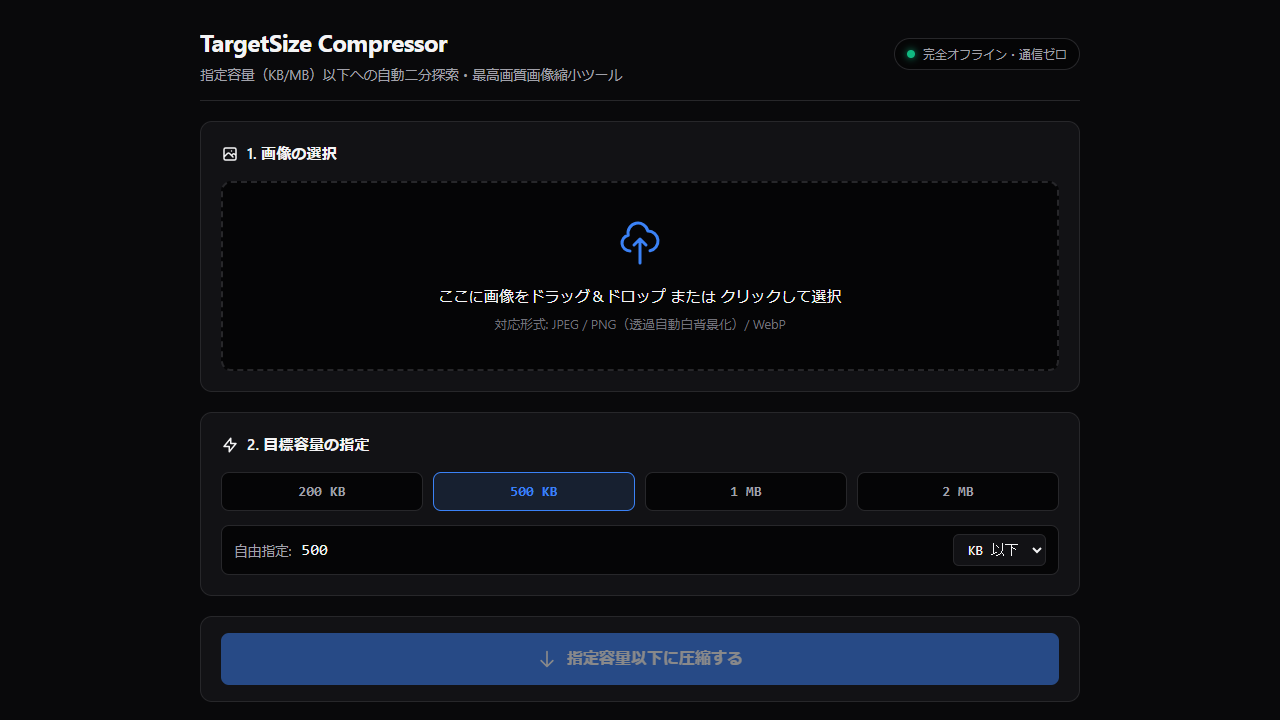
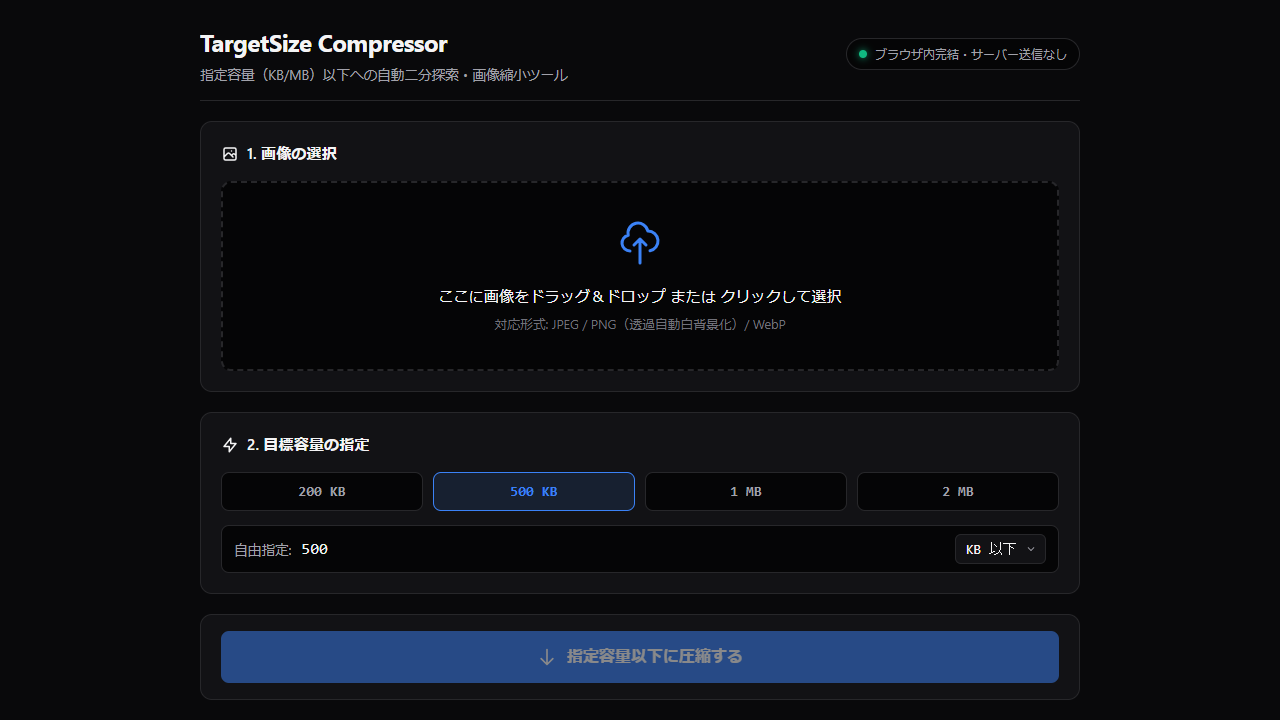
feat: update TargetSize Compressor showcase page to standalone format

diff --git a/tools/target-size-compressor/index.html b/tools/target-size-compressor/index.html
@@ -3,15 +3,13 @@
 <head>
   <meta charset="utf-8">
   <meta name="viewport" content="width=device-width, initial-scale=1">
-  <title>指定キロバイト画像縮小ツール (TargetSize Compressor) | Zero Dev</title>
-  <meta name="description" content="役所申請やエントリーシートなどの「500KB以下」指定に合わせて、画像をブラウザ内で自動圧縮する完全ローカルWebツールです。">
+  <title>指定キロバイト（KB）画像縮小ツール | Zero Dev</title>
+  <meta name="description" content="画像のファイルサイズを指定した容量（KB/MB）以下にブラウザ内で縮小・圧縮するWebツール。オンライン申請やフォーム提出時の容量制限に合わせた画像調整に使えます。">
   <link rel="canonical" href="https://zero-dev.jp/tools/target-size-compressor/">
   <link rel="icon" href="/favicon.svg" type="image/svg+xml">
   <link rel="stylesheet" href="/css/style.css">
-  <link rel="stylesheet" href="./css/style.css">
 </head>
 <body>
-  <!-- Site Header (Zero Dev 共通) -->
   <header class="site-header">
     <div class="container header-inner">
       <a href="/" class="site-logo">Zero Dev</a>
@@ -23,214 +21,77 @@
     </div>
   </header>
 
-  <!-- Main Content -->
   <main class="site-main">
     <div class="container">
       <article class="tool-detail"
-        data-title="指定キロバイト画像縮小ツール"
+        data-title="指定キロバイト（KB）画像縮小ツール"
         data-subtitle="TargetSize Compressor"
-        data-description="役所申請やエントリーシートなどの「500KB以下」指定に合わせて、画像をブラウザ内で自動圧縮する完全ローカルWebツールです。"
+        data-description="画像のファイルサイズを指定した容量（KB/MB）以下にブラウザ内で縮小・圧縮するWebツール。オンライン申請やフォーム提出時の容量制限に合わせた画像調整に使えます。"
         data-category="general"
         data-image="/assets/tools/target-size-compressor.png"
-        data-published="2026-10-25">
+        data-published="2026-10-31">
 
         <header class="tool-detail-header">
           <div class="tool-meta-badge-row">
             <span class="badge badge-general">一般向けツール</span>
           </div>
-          <h1 class="tool-title">指定キロバイト画像縮小ツール</h1>
+          <h1 class="tool-title">指定キロバイト（KB）画像縮小ツール</h1>
           <p class="tool-subtitle">TargetSize Compressor</p>
         </header>
 
         <figure class="tool-media">
-          <img src="/assets/tools/target-size-compressor.png" alt="TargetSize Compressor スクリーンショット" width="1280" height="720">
-          <figcaption class="tool-media-caption">TargetSize Compressor - メイン画面</figcaption>
+          <img src="/assets/tools/target-size-compressor.png" alt="指定キロバイト（KB）画像縮小ツール スクリーンショット" width="1280" height="720">
+          <figcaption class="tool-media-caption">TargetSize Compressor - メイン画面（ブラウザ内完結で指定容量以下に自動縮小）</figcaption>
         </figure>
 
-        <!-- ツール本体埋め込みセクション -->
-        <section class="tool-section tool-app-section">
-          <h2>ツールを利用する</h2>
-          <p style="color: var(--text-secondary); margin-bottom: 20px;">
-            画像をドラッグ＆ドロップまたは選択し、希望の目標容量を指定して「指定容量以下に圧縮する」を押してください。画像は外部サーバーへ送信されず、お使いの端末内だけで安全・高速に処理されます。
-          </p>
-
-          <div class="app-container" style="max-width: 100%; margin: 0; padding: 0;">
-            <!-- Step 1: Image Dropzone -->
-            <section class="card" aria-labelledby="heading-image-select">
-              <h3 id="heading-image-select" class="card-title">
-                <svg width="18" height="18" fill="none" stroke="currentColor" viewBox="0 0 24 24" aria-hidden="true">
-                  <path stroke-linecap="round" stroke-linejoin="round" stroke-width="2" d="M4 16l4.586-4.586a2 2 0 012.828 0L16 16m-2-2l1.586-1.586a2 2 0 012.828 0L20 14m-6-6h.01M6 20h12a2 2 0 002-2V6a2 2 0 00-2-2H6a2 2 0 00-2 2v12a2 2 0 002 2z"/>
-                </svg>
-                1. 画像の選択
-              </h3>
-              
-              <input type="file" id="file-input" accept="image/jpeg,image/png,image/webp" style="display: none;" aria-label="画像ファイルを選択">
-
-              <div id="dropzone" class="dropzone" role="button" tabindex="0" aria-label="画像をドラッグ＆ドロップまたはクリックしてファイル選択">
-                <svg class="dropzone-icon" fill="none" stroke="currentColor" viewBox="0 0 24 24" aria-hidden="true">
-                  <path stroke-linecap="round" stroke-linejoin="round" stroke-width="1.5" d="M7 16a4 4 0 01-.88-7.903A5 5 0 1115.9 6L16 6a5 5 0 011 9.9M15 13l-3-3m0 0l-3 3m3-3v12"/>
-                </svg>
-                <div class="dropzone-text">ここに画像をドラッグ＆ドロップ または クリックして選択</div>
-                <div class="dropzone-subtext">対応形式: JPEG / PNG（透過自動白背景化）/ WebP</div>
-              </div>
-
-              <!-- Selected File Info -->
-              <div id="selected-file-card" class="selected-file-card" style="display: none;">
-                <img id="thumbnail-preview" class="thumbnail-preview" alt="選択画像のサムネイル">
-                <div class="file-meta">
-                  <div id="file-meta-name" class="file-meta-name">-</div>
-                  <div id="file-meta-details" class="file-meta-details">-</div>
-                </div>
-                <button type="button" id="btn-remove-file" class="btn-remove" title="画像を解除" aria-label="選択中の画像を解除">
-                  <svg width="18" height="18" fill="none" stroke="currentColor" viewBox="0 0 24 24" aria-hidden="true">
-                    <path stroke-linecap="round" stroke-linejoin="round" stroke-width="2" d="M6 18L18 6M6 6l12 12"/>
-                  </svg>
-                </button>
-              </div>
-            </section>
-
-            <!-- Step 2: Target Size Selection -->
-            <section class="card" aria-labelledby="heading-target-size">
-              <h3 id="heading-target-size" class="card-title">
-                <svg width="18" height="18" fill="none" stroke="currentColor" viewBox="0 0 24 24" aria-hidden="true">
-                  <path stroke-linecap="round" stroke-linejoin="round" stroke-width="2" d="M13 10V3L4 14h7v7l9-11h-7z"/>
-                </svg>
-                2. 目標容量の指定
-              </h3>
-
-              <!-- Preset Buttons -->
-              <div class="preset-group" role="radiogroup" aria-label="容量プリセット">
-                <button type="button" class="btn-preset" data-size="200" data-unit="KB" role="radio" aria-checked="false">200 KB</button>
-                <button type="button" class="btn-preset active" data-size="500" data-unit="KB" role="radio" aria-checked="true">500 KB</button>
-                <button type="button" class="btn-preset" data-size="1" data-unit="MB" role="radio" aria-checked="false">1 MB</button>
-                <button type="button" class="btn-preset" data-size="2" data-unit="MB" role="radio" aria-checked="false">2 MB</button>
-              </div>
-
-              <!-- Custom Size Input -->
-              <div class="custom-input-row">
-                <label for="custom-size-input">自由指定:</label>
-                <input type="number" id="custom-size-input" class="input-number" min="1" max="50000" placeholder="例: 500" value="500" aria-label="目標容量数値">
-                <select id="custom-unit-select" class="select-unit" aria-label="容量単位">
-                  <option value="KB" selected>KB 以下</option>
-                  <option value="MB">MB 以下</option>
-                </select>
-              </div>
-            </section>
-
-            <!-- Action Section -->
-            <section class="card" style="padding: 16px 20px;">
-              <button type="button" id="btn-compress" class="btn-action" disabled>
-                <svg width="20" height="20" fill="none" stroke="currentColor" viewBox="0 0 24 24" aria-hidden="true">
-                  <path stroke-linecap="round" stroke-linejoin="round" stroke-width="2" d="M19 14l-7 7m0 0l-7-7m7 7V3"/>
-                </svg>
-                <span id="btn-compress-text">指定容量以下に圧縮する</span>
-              </button>
-
-              <!-- Progress Box -->
-              <div id="progress-box" class="progress-box" style="display: none;" aria-live="polite">
-                <div class="spinner" aria-hidden="true"></div>
-                <div id="progress-text">処理準備中...</div>
-              </div>
-            </section>
-
-            <!-- Step 3: Result Section -->
-            <section id="result-card" class="card" style="display: none;" aria-labelledby="heading-result">
-              <h3 id="heading-result" class="card-title">
-                <svg width="18" height="18" fill="none" stroke="currentColor" viewBox="0 0 24 24" aria-hidden="true">
-                  <path stroke-linecap="round" stroke-linejoin="round" stroke-width="2" d="M9 12l2 2 4-4m6 2a9 9 0 11-18 0 9 9 0 0118 0z"/>
-                </svg>
-                3. 圧縮結果 & ダウンロード
-              </h3>
-
-              <!-- Metric Cards -->
-              <div class="metrics-grid">
-                <div class="metric-card">
-                  <div class="metric-label">元ファイル容量</div>
-                  <div id="metric-original-size" class="metric-value">-</div>
-                </div>
-                <div class="metric-card">
-                  <div class="metric-label">圧縮後容量</div>
-                  <div id="metric-result-size" class="metric-value highlight">-</div>
-                </div>
-                <div class="metric-card">
-                  <div class="metric-label">削減率</div>
-                  <div id="metric-reduction-rate" class="metric-value highlight">-</div>
-                </div>
-                <div class="metric-card">
-                  <div class="metric-label">解像度 / 採用品質</div>
-                  <div id="metric-quality-info" class="metric-value" style="font-size: 0.95rem;">-</div>
-                </div>
-              </div>
-
-              <!-- Preview & Download -->
-              <div class="preview-container">
-                <div class="result-img-wrapper">
-                  <img id="result-preview-img" class="result-img" alt="圧縮後画像プレビュー">
-                </div>
-                <button type="button" id="btn-download" class="btn-download">
-                  <svg width="20" height="20" fill="none" stroke="currentColor" viewBox="0 0 24 24" aria-hidden="true">
-                    <path stroke-linecap="round" stroke-linejoin="round" stroke-width="2" d="M4 16v1a3 3 0 003 3h10a3 3 0 003-3v-1m-4-4l-4 4m0 0l-4-4m4 4V4"/>
-                  </svg>
-                  <span id="btn-download-text">画像をダウンロード</span>
-                </button>
-              </div>
-            </section>
+        <section class="tool-actions-box">
+          <h2>ツールを利用する / コードを見る</h2>
+          <div class="btn-group">
+            <a href="https://zero-dev.jp/target-size-compressor/" class="btn btn-primary" target="_blank" rel="noopener noreferrer">ツールを開く（Web版）</a>
+            <a href="https://github.com/tk030-lotto/target-size-compressor" class="btn btn-secondary" target="_blank" rel="noopener noreferrer">GitHub リポジトリ</a>
+            <a href="#" class="btn btn-secondary" aria-disabled="true" tabindex="-1" style="opacity: 0.45; pointer-events: none; cursor: not-allowed; color: var(--text-muted); border-color: var(--border-color);">note 解説記事（準備中）</a>
           </div>
         </section>
 
-        <!-- 用途 -->
         <section class="tool-section">
-          <h2>用途</h2>
+          <h2>こんなときに</h2>
           <p>
-            公的申請や資格試験、履歴書のWeb提出などで求められる「○○KB以下」「○MB以下」といった容量制限に合わせて、ブラウザ内で画像を自動圧縮・縮小するツールです。目標容量を指定するだけで、画質と解像度の最適値を自動探索し、目標サイズを超えない最高画質の画像を即座に生成します。画像は外部サーバーに送信されず、お使いのブラウザ内だけで安全に処理されます。
+            オンライン申請やエントリーシート、各種Webフォームに顔写真や本人確認書類の画像をアップロードするとき、「500KB以下」「2MB以下」といったファイルサイズの制限でエラーになることがあります。通常の画像編集ソフトでは「何％に縮小すれば指定のKB以下に収まるか」が分からず、何度も保存し直して確かめる手間がかかります。このツールは、目標の容量（KB / MB）を指定するだけで、その容量以下に収まるJPEG画像をブラウザ内で作成します。
           </p>
         </section>
 
-        <!-- なぜ作ったか -->
+        <section class="tool-section">
+          <h2>できること</h2>
+          <ul>
+            <li><strong>目標容量のプリセット選択と自由指定</strong>: 「200 KB」「500 KB」「1 MB」「2 MB」のボタンから選ぶか、任意の数値（KB / MB）を入力して目標サイズを指定できます。</li>
+            <li><strong>二分探索による画質調整と段階的な解像度縮小</strong>: 目標容量の99%以下になるようJPEGの画質（1%〜100%）を最大8回の二分探索で自動調整します。画質を下げるだけでは収まらない大きな画像は、縦横の寸法を85%ずつ段階的に縮小して目標容量に収めます。</li>
+            <li><strong>透過PNG・WebPの白背景合成</strong>: 透過部分のあるPNG画像やWebP画像をJPEGに変換する際、背景が黒く塗りつぶされないよう自動で白背景（<code>#FFFFFF</code>）を合成します。</li>
+            <li><strong>圧縮結果の確認とファイル名への容量付与</strong>: 圧縮前後の容量、削減率、出力解像度（px）と採用品質（%）、プレビュー画像を画面上で確認できます。保存時は <code>[元のファイル名]_[容量]KB.jpg</code> の名前でダウンロードされます。</li>
+            <li><strong>ブラウザ内完結処理</strong>: 画像の読み込みから圧縮・保存まですべてお使いのブラウザ内（Canvas API）で処理され、外部サーバーへ画像が送信されることはありません。</li>
+          </ul>
+        </section>
+
+        <section class="tool-section">
+          <h2>向かないこと・注意</h2>
+          <ul>
+            <li><strong>出力形式はJPEG（<code>.jpg</code>）のみです</strong>: 入力は JPEG / PNG / WebP に対応していますが、圧縮後のファイルはすべて JPEG 形式で出力されます。透過を維持したままのPNG出力には対応していません。</li>
+            <li><strong>HEIC / HEIF 形式には直接対応していません</strong>: スマートフォン等で撮影された <code>.heic</code> ファイルは、あらかじめ JPEG または PNG に変換してから読み込ませてください。</li>
+            <li><strong>極端に小さい容量への圧縮には限界があります</strong>: 縦または横の解像度が下限（50px）に達しても目標容量に収まらない場合や、最大10回の縮小試行を超えても収まらない場合はエラーを表示して処理を中断します。また、出力された画像が提出先の規定（文字の判読性や最小ピクセル数など）を満たしているかは、提出前にご自身でご確認ください。</li>
+          </ul>
+        </section>
+
         <section class="tool-section">
           <h2>なぜ作ったか</h2>
           <p>
-            役所の手続きや採用エントリー等で「500KB以下」などの厳しい容量制限を課される場面が多い一方、画質を保ちながら指定容量ぴったりに収めるには画質スライダーの手動調整を何度も繰り返す必要がありました。また、証明写真や公的書類といった機密性の高い画像を外部の圧縮サーバーへアップロードすることへのプライバシー上の懸念もありました。そこで、画像を外部へ一切送信せず、ブラウザ内だけで指定容量以下の最大画質を自動算出するツールとして開発しました。
+            各種の手続きや申請フォームで画像を添付するとき、「ファイルサイズを○○KB以下にしてください」という指定によく遭遇します。画質や解像度をスライダーで手動調整するツールでは、狙った容量のすぐ下に合わせるために何度も試行錯誤する必要がありました。また、証明写真や書類の画像を外部のサーバーにアップロードして変換するのには抵抗があります。そこで、ブラウザの中だけで動き、「何KB以下にしたいか」を入れるだけで自動的に画質とサイズを探してくれる道具としてこのツールを作りました。
           </p>
         </section>
 
-        <!-- 主な機能・特徴 -->
-        <section class="tool-section">
-          <h2>主な機能・特徴</h2>
-          <ul>
-            <li><strong>目標容量狙い撃ちの二分探索エンジン</strong>: 「200KB」「500KB」「1MB」「2MB」のプリセットや自由入力に対し、最大8回の二分探索によって目標容量を下回る最高品質を自動算出します（実証例：6960×4640px / 約4.0MBの写真を解像度維持のまま423.7KB・品質4%へ89.5%削減）。</li>
-            <li><strong>完全ローカル処理（外部通信ゼロ）</strong>: 画像の読み込みからCanvas描画、JPEGエンコード、ダウンロードまでの全工程がお使いの端末内（ブラウザ）で完結します。外部サーバーへの画像送信や通信トラッキングは一切行われません。</li>
-            <li><strong>透過画像の自動白背景合成と世代劣化防止</strong>: 透過PNGがJPEG化によって黒塗りになるのを防ぐため、自動で白背景（#FFFFFF）を合成します。また、品質調整だけで収まらず段階的リサイズ（0.85倍）を行う場合も、常に元画像から直接再サンプリングして多重圧縮によるボケ（世代劣化）を防ぎます。</li>
-            <li><strong>実容量ラベル付きダウンロード</strong>: 保存ファイル名に <code>[元ファイル名]_[実サイズ]KB.jpg</code>（例：<code>photo_424KB.jpg</code>）のように実容量が自動付与されるため、提出前の容量再確認が容易です。</li>
-          </ul>
-        </section>
-
-        <!-- 注意事項・限界 -->
-        <section class="tool-section">
-          <h2>注意事項・限界</h2>
-          <ul>
-            <li><strong>HEIC形式の非対応</strong>: iPhone等で撮影されたHEIC/HEIF形式はブラウザの標準仕様上直接読み込めないため、あらかじめJPEGやPNG等へ変換してからご利用いただく必要があります。</li>
-            <li><strong>高画素写真における処理負荷</strong>: 数千万画素を超える超高解像度写真の場合、端末のCPU/メモリスペックによってCanvasの展開やエンコード処理に数秒程度の時間を要する場合があります。</li>
-            <li><strong>透過情報の維持不可</strong>: 高効率な容量圧縮を行うため出力はJPEG形式に統一されており、透過PNGの透明部分はすべて白色に置換されます。</li>
-          </ul>
-        </section>
-
-        <!-- 操作デモ -->
         <figure class="tool-media">
-          <img src="./assets/demo.gif" alt="TargetSize Compressor 操作デモ" width="800" height="450">
-          <figcaption class="tool-media-caption">操作デモ（ドラッグ＆ドロップで目標容量を指定し、自動で最大画質を算出・ダウンロード）</figcaption>
+          <img src="./assets/demo.gif" alt="TargetSize Compressor 操作デモ" width="960" height="540">
+          <figcaption class="tool-media-caption">操作デモ（画像を選択し、目標容量に合わせて自動で画質探索・ダウンロード）</figcaption>
         </figure>
 
-        <!-- アクションリンク -->
-        <section class="tool-actions-box">
-          <h2>リポジトリを見る</h2>
-          <div class="btn-group">
-            <a href="https://github.com/tk030-lotto/targetsize-compressor" class="btn btn-secondary" target="_blank" rel="noopener noreferrer">GitHub リポジトリ</a>
-            <a href="#" class="btn btn-secondary">note 解説記事</a>
-          </div>
-        </section>
-
-        <!-- 開発支援 -->
         <section class="support-box">
           <h2>開発支援（サポート）</h2>
           <p>
@@ -242,16 +103,14 @@
           </div>
         </section>
 
-        <!-- メタ情報 -->
         <footer class="tool-meta-info">
           <span>ライセンス: MIT License</span>
-          <span>公開日: 2026-10-25</span>
+          <span>公開日: 2026-10-31</span>
         </footer>
       </article>
     </div>
   </main>
 
-  <!-- Site Footer (Zero Dev 共通) -->
   <footer class="site-footer">
     <div class="container footer-inner">
       <nav class="footer-nav">
@@ -261,6 +120,8 @@
         <span class="footer-divider">·</span>
         <a href="https://zero-dev.jp/my-tools/">My Tools</a>
         <span class="footer-divider">·</span>
+        <a href="/about/">運営者情報</a>
+        <span class="footer-divider">·</span>
         <a href="/privacy/">プライバシーポリシー</a>
         <span class="footer-divider">·</span>
         <a href="/disclaimer/">免責事項</a>
@@ -268,17 +129,5 @@
       <p class="footer-copyright">© 2026 Zero Dev</p>
     </div>
   </footer>
-
-  <!-- Toast Notification -->
-  <div class="toast-container" aria-live="polite">
-    <div id="toast" class="toast">
-      <span id="toast-message">処理が完了しました</span>
-    </div>
-  </div>
-
-  <!-- Scripts -->
-  <script src="./js/config.js"></script>
-  <script src="./js/compressor.js"></script>
-  <script src="./js/app.js"></script>
 </body>
 </html>

diff --git a/tools/index.html b/tools/index.html
@@ -35,6 +35,19 @@
         <div class="tools-grid">
           <article class="tool-card">
             <div class="tool-card-thumb">
+              <img src="/assets/tools/target-size-compressor.png" alt="指定キロバイト（KB）画像縮小ツール" loading="lazy">
+            </div>
+            <div class="tool-card-content">
+              <h3 class="tool-card-title">指定キロバイト（KB）画像縮小ツール</h3>
+              <p class="tool-card-subtitle">TargetSize Compressor</p>
+              <p class="tool-card-desc">画像のファイルサイズを指定した容量（KB/MB）以下にブラウザ内で縮小・圧縮するWebツール。オンライン申請やフォーム提出時の容量制限に合わせた画像調整に使えます。</p>
+              <div class="tool-card-footer">
+                <a href="/tools/target-size-compressor/" class="btn btn-primary">詳細を見る</a>
+              </div>
+            </div>
+          </article>
+          <article class="tool-card">
+            <div class="tool-card-thumb">
               <img src="/assets/tools/credit-card-manager.png" alt="クレジットカード管理ツール" loading="lazy">
             </div>
             <div class="tool-card-content">
@@ -147,19 +160,6 @@
               <p class="tool-card-desc">生年月日から満年齢・和暦・学歴年月（入学・卒業）を自動計算するブラウザ完結型ツールです。外部通信を行わず端末内のみで処理します。</p>
               <div class="tool-card-footer">
                 <a href="/tools/resume-date-calculator/" class="btn btn-primary">詳細を見る</a>
-              </div>
-            </div>
-          </article>
-          <article class="tool-card">
-            <div class="tool-card-thumb">
-              <img src="/assets/tools/target-size-compressor.png" alt="指定キロバイト画像縮小ツール" loading="lazy">
-            </div>
-            <div class="tool-card-content">
-              <h3 class="tool-card-title">指定キロバイト画像縮小ツール</h3>
-              <p class="tool-card-subtitle">TargetSize Compressor</p>
-              <p class="tool-card-desc">役所申請やエントリーシートなどの「500KB以下」指定に合わせて、画像をブラウザ内で自動圧縮する完全ローカルWebツールです。</p>
-              <div class="tool-card-footer">
-                <a href="/tools/target-size-compressor/" class="btn btn-primary">詳細を見る</a>
               </div>
             </div>
           </article>
